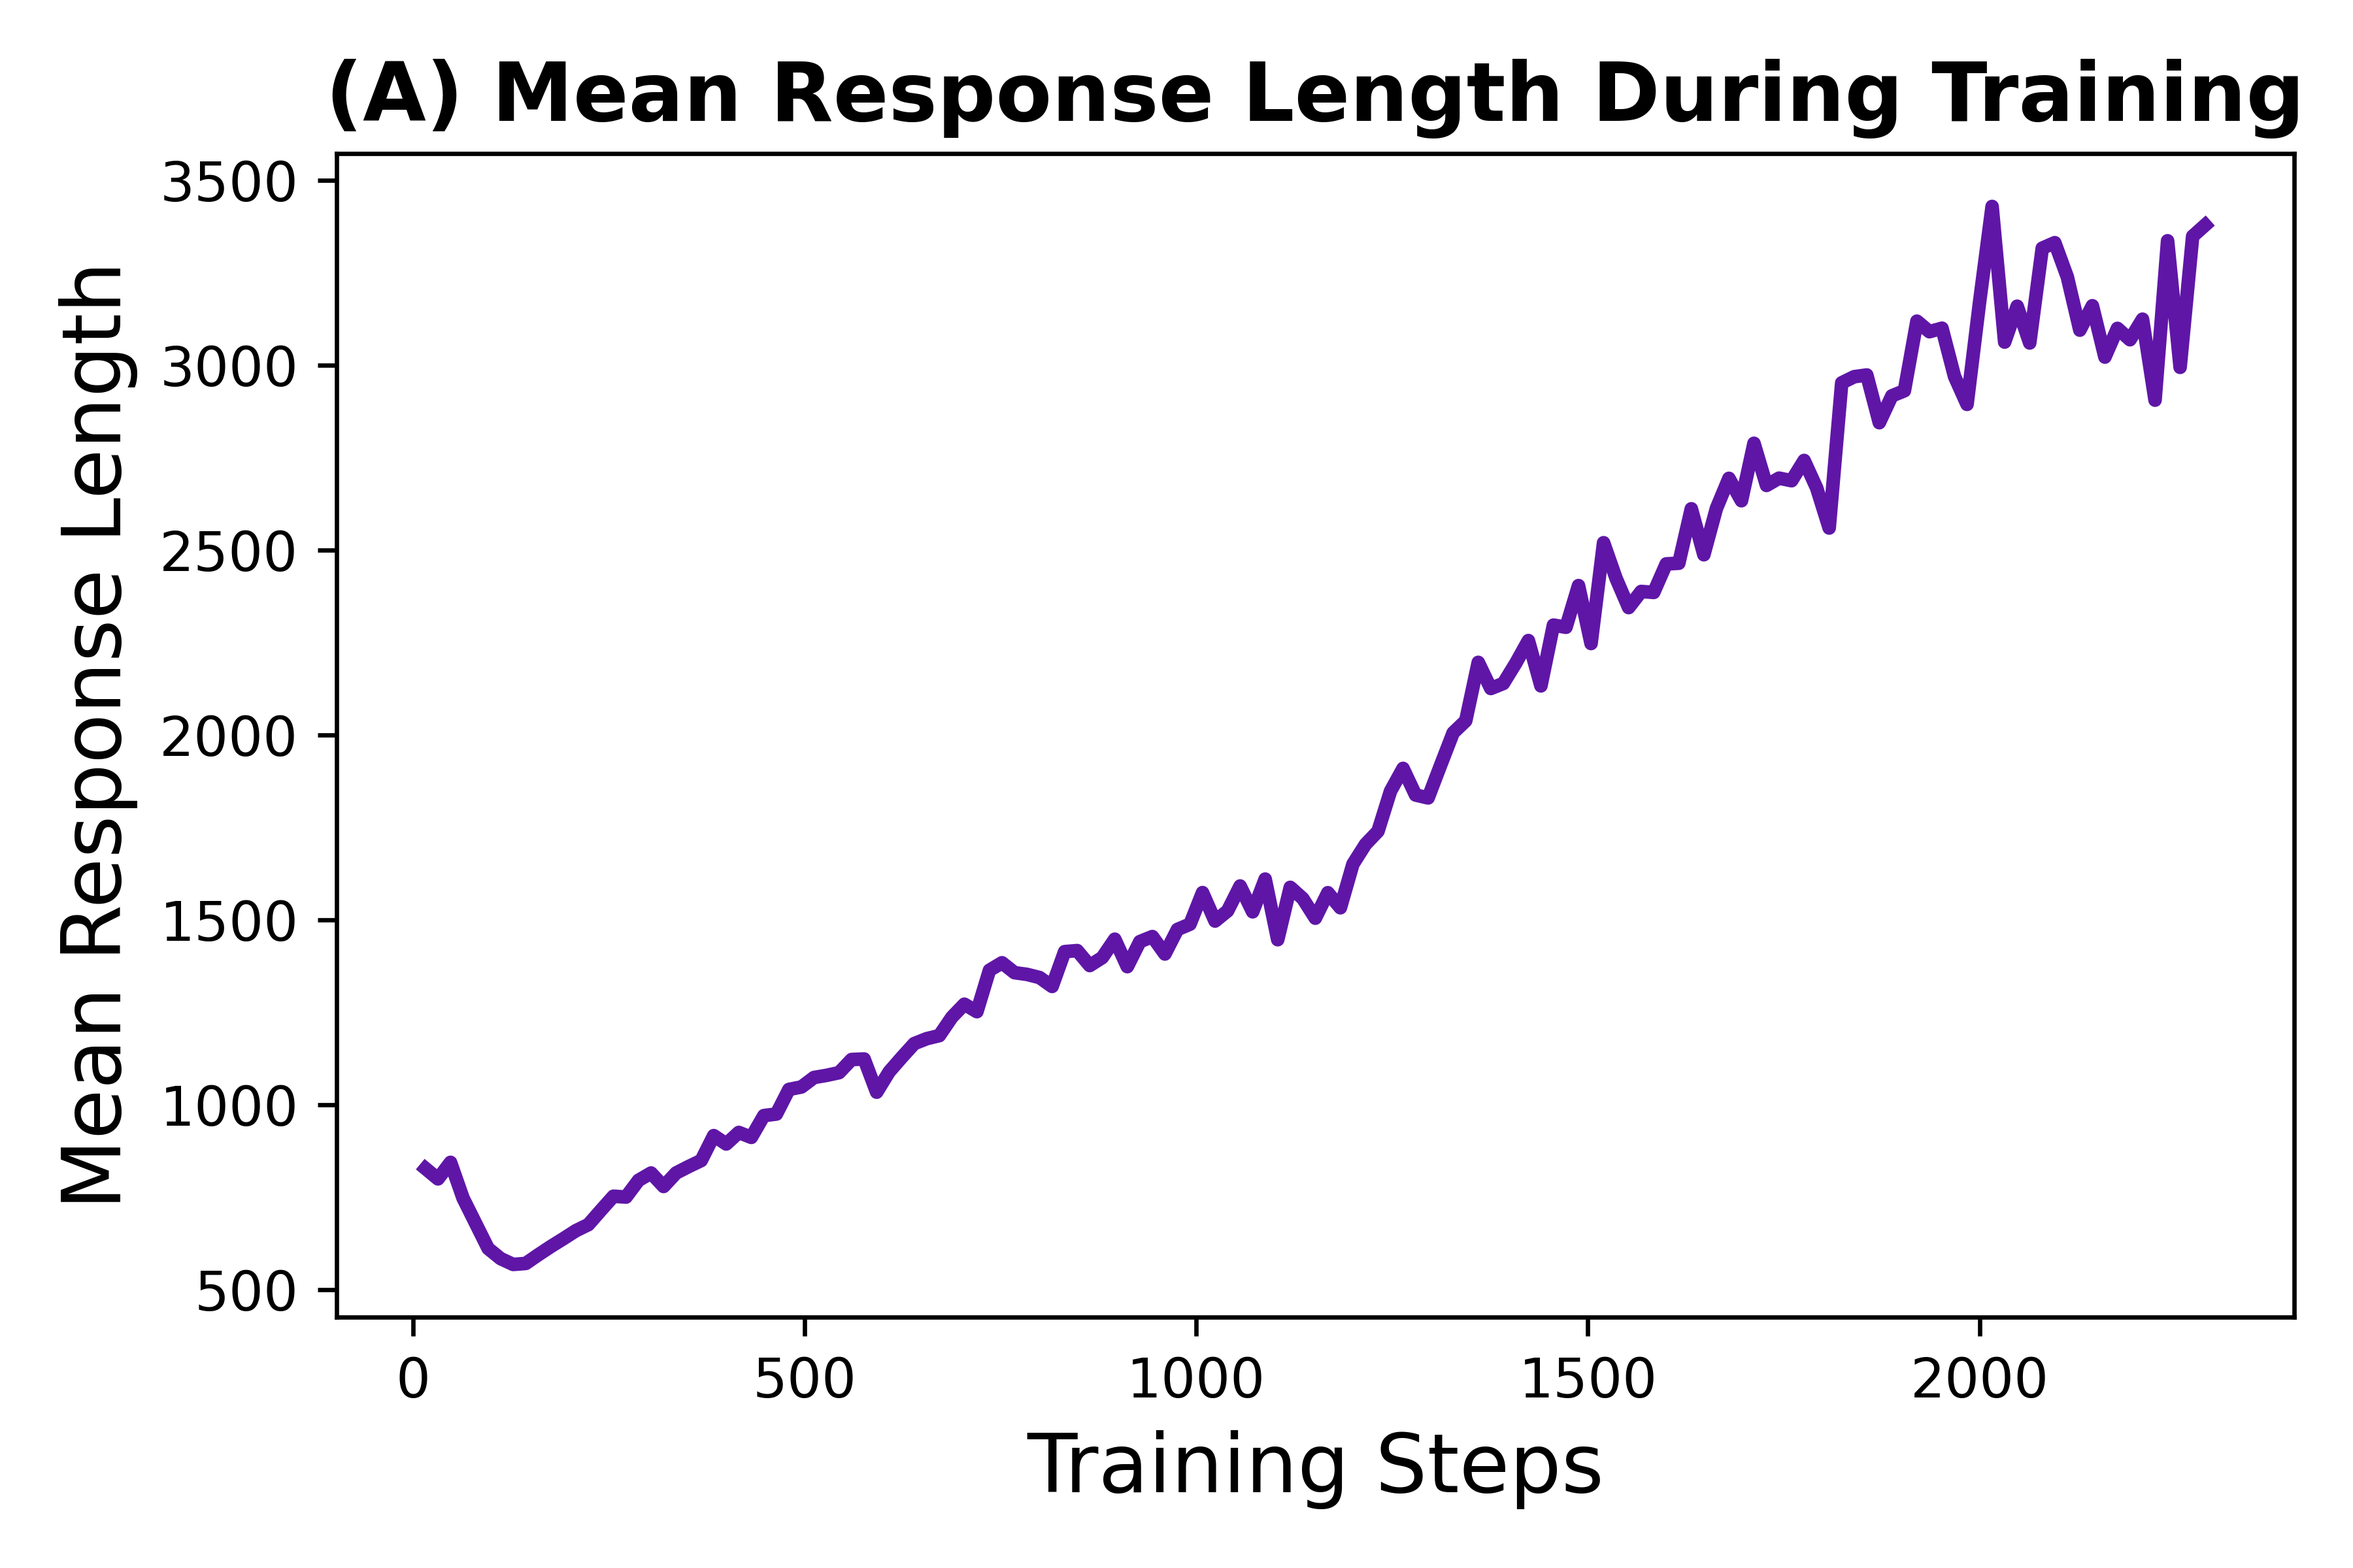
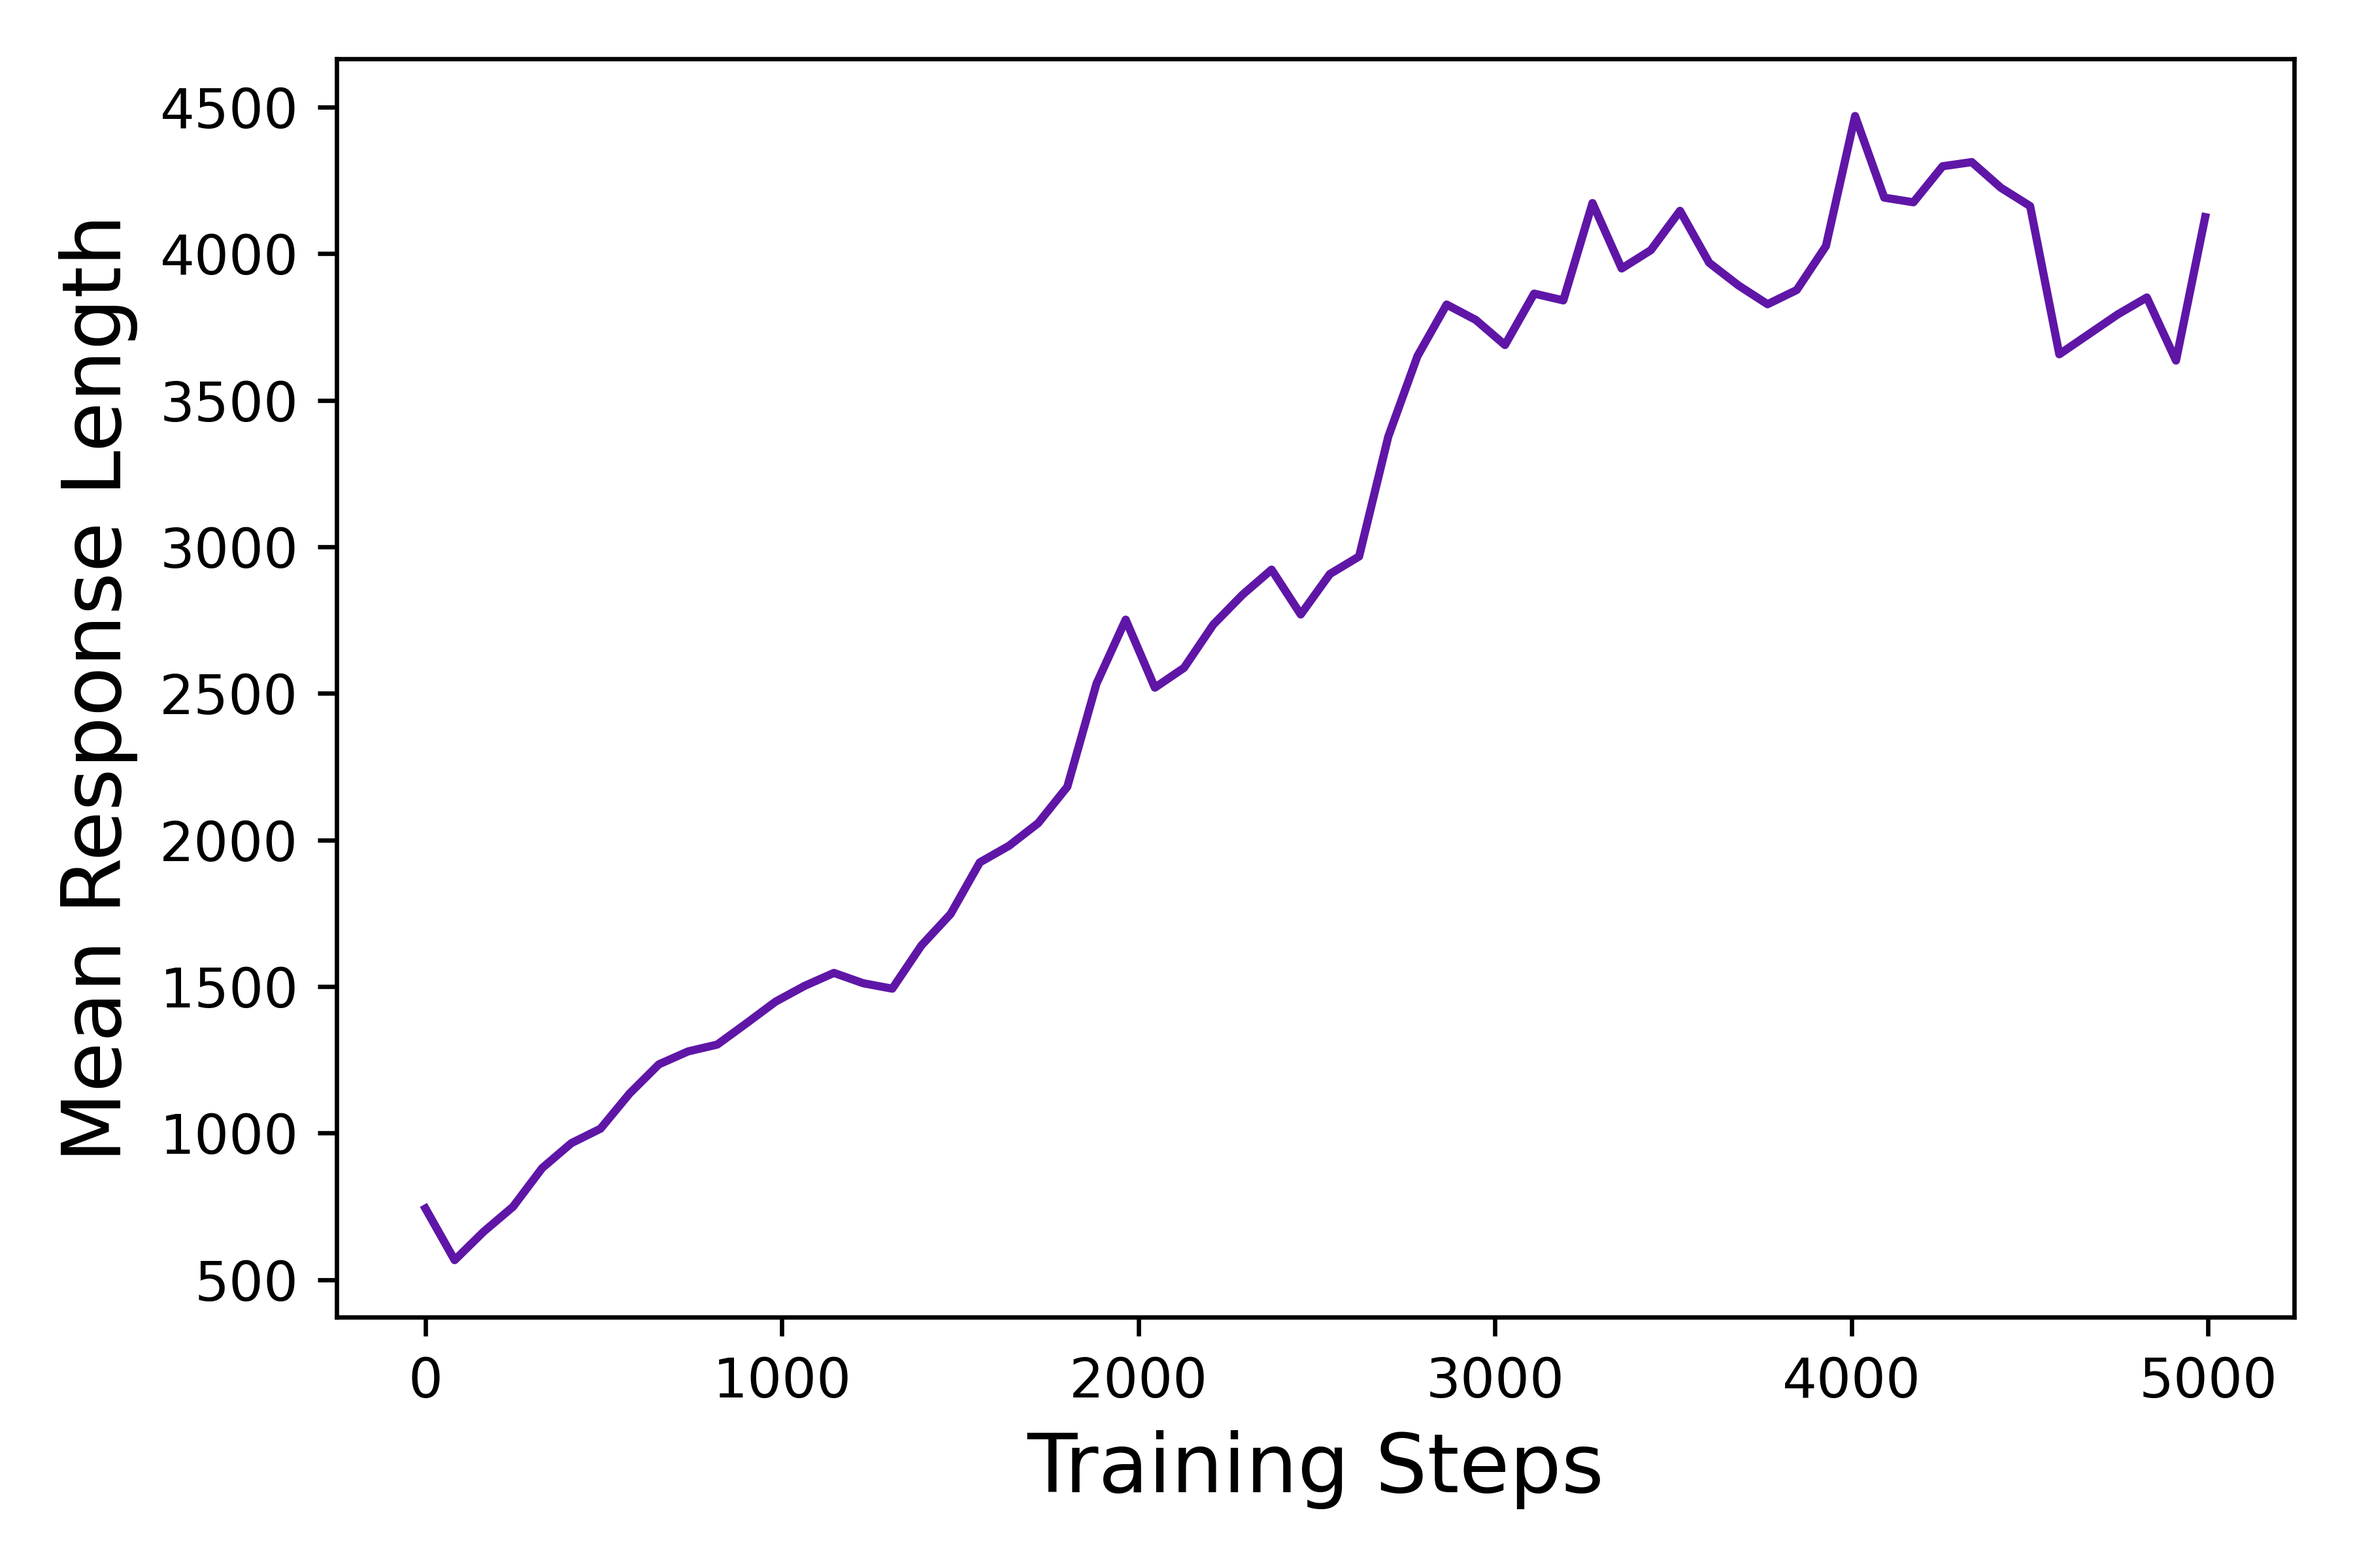
mod: change to DAPO

diff --git a/index.html b/index.html
@@ -3,12 +3,11 @@
 <head>
   <meta charset="utf-8">
   <meta name="description"
-        content="Democratizing LLM Reasoning
-        by Unveiling the Secrets of RL Scaling"> <!-- TODO: add some description, visible outside -->
-  <meta name="keywords" content="Puffin-Zero, Deepseek-R1, GRPO, AIME, SIA-Lab, Tsinghua University, ByteDance AlphaSeed"> <!-- TODO: add some keywords for search engine -->
+        content="DAPO: An Open-Source State-of-The-Art LLM Reinforcement Learning System"> <!-- TODO: add some description, visible outside -->
+  <meta name="keywords" content="DAPO, Deepseek-R1, PPO, GRPO, AIME, SIA-Lab, Tsinghua University, ByteDance AlphaSeed"> <!-- TODO: add some keywords for search engine -->
   <meta name="viewport" content="width=device-width, initial-scale=1">
   <meta name="google-site-verification" content="kprAnuq7DikheNqF213Uz7EMDHcgE-ivGPsTVfGzAsI" />
-  <title>Puffin-Zero</title> <!-- TODO: fix the title displayed on top -->
+  <title>DAPO</title>
 
   <!-- Global site tag (gtag.js) - Google Analytics -->
   <script async src="https://www.googletagmanager.com/gtag/js?id=G-PYVRSFMDRL"></script>
@@ -24,15 +23,6 @@
     gtag('config', 'G-PYVRSFMDRL');
   </script>
   <script async src="https://cdn.jsdelivr.net/npm/mathjax@3/es5/tex-mml-chtml.js"></script>
-  <!-- <script type="text/javascript" async src="https://cdnjs.cloudflare.com/ajax/libs/mathjax/2.7.7/MathJax.js?config=TeX-MML-AM_CHTML"></script>
-  <script type="text/x-mathjax-config">
-      MathJax.Hub.Config({
-        tex2jax: {
-            inlineMath: [['$','$'], ['\\(','\\)']],
-            processEscapes: true
-        }
-      });
-  </script> -->
 
   <link href="https://fonts.googleapis.com/css?family=Google+Sans|Noto+Sans|Castoro"
         rel="stylesheet">
@@ -44,7 +34,6 @@
   <link rel="stylesheet"
         href="https://cdn.jsdelivr.net/gh/jpswalsh/academicons@1/css/academicons.min.css">
   <link rel="stylesheet" href="./static/css/index.css">
-  <link rel="icon" type="images/x-icon" href="./static/images/icon_3.png"> <!-- TODO: fix icon -->
 
   <script src="https://ajax.googleapis.com/ajax/libs/jquery/3.5.1/jquery.min.js"></script>
   <script defer src="./static/js/fontawesome_6_7_2.all.js"></script>
@@ -92,9 +81,7 @@
       <div class="columns is-centered">
         <div class="column has-text-centered">
           <h1 class="title is-1 publication-title">
-            <img src="static/images/icon_3.png" style="width:1.25em;vertical-align: middle" alt="Logo" />
-            <span class="dnerf">Puffin-Zero</span>: Democratizing LLM Reasoning
-            by Unveiling the Secrets of RL Scaling
+            DAPO: An Open-Source State-of-The-Art LLM Reinforcement Learning System
           </h1> <!-- TODO: fix the title -->
           <!-- <div class="is-size-5 publication-authors">
             <span class="author-block">
@@ -107,11 +94,12 @@
           </div> -->
 
           <div class="is-size-5 publication-authors">
-            <span class="author-block"><sup>1</sup>ByteDance Seed,</span>
+            <span class="author-block"><sup>1</sup>ByteDance Seed</span>
             <span class="author-block"><sup>2</sup>Institute for AI Industry Research (AIR), Tsinghua University</span>
-            <span class="author-block"><sup>3</sup>Tsinghua-ByteDance SIA-Lab</span>
+            <span class="author-block"><sup>3</sup>SIA-Lab of Tsinghua AIR and ByteDance Seed</span>
+            <span class="author-block"><sup>4</sup>The University of Hong Kong</span>
           </div>
-          <div class="is-size-5 publication-authors">
+          <div class="is-size-6 publication-authors">
             <span class="author-block">*Full author list in Contributions</span>
           </div>
 
@@ -202,7 +190,7 @@
         <h2 class="title is-3">Abstract</h2>
         <div class="content has-text-justified">
           <p>
-            We release a fully open-sourced system for large-scale LLM RL, including algorithm, code infrastructure, and dataset. The system achieves state-of-the-art large-scale LLM RL performance (AIME 50 on Qwen-32B pretrained model). We propose the Decoupled Clip and Dynamic SAmpling Policy Optimization (DAPO) algorithm. Through open-sourcing, we provide the broader research community and society with practical access to scalable reinforcement learning, enabling all to benefit from these advancements. Our system is based on the awesome VeRL framework. Thanks for their great work!
+            We release a fully open-sourced system for large-scale LLM RL, including algorithm, code infrastructure, and dataset. The system achieves state-of-the-art large-scale LLM RL performance (AIME 50 on Qwen-32B pretrained model). We propose the Decoupled Clip and Dynamic SAmpling Policy Optimization (DAPO) algorithm. Through open-sourcing, we provide the broader research community and society with practical access to scalable reinforcement learning, enabling all to benefit from these advancements. Our system is based on the awesome <a href="https://github.com/volcengine/verl">verl</a> framework. Thanks for their great work!
           </p>
         </div>
       </div>
@@ -225,8 +213,8 @@
       <div class="column is-four-fifths">
         <h2 class="subtitle has-text-centered">
           <img src="static/images/score.png"/>
-          AIME performance and length dynamics of DAPO.
         </h2>
+        AIME24 Performance: DAPO on the Qwen2.5-32B base model outperforms the previous SoTA DeepSeek-R1-Zero-Qwen-32B with 50% training steps.
       </div>
     </div>
 
@@ -234,9 +222,9 @@
     <div class="columns is-centered has-text-centered">
       <div class="column is-four-fifths">
         <h2 class="subtitle has-text-centered">
-          <img src="static/images/length.png"/>
-          Some caption.
+          <img src="static/images/length.png" width="400"/>
         </h2>
+        Length Dynamics: The increase in length provides the model with a larger space for exploration, allowing more complex reasoning behaviors to be sampled and reinforced.
       </div>
     </div>
   </div>
@@ -252,31 +240,34 @@
           <p>
             To benefit the broader research community, we make fully open-source the recipe of our RL training, including algorithm details, dataset, verifiers, model weights and infrastructures. We hope our project could help the research community to unlock the secret of large-scale RL training much easier. We'll provide a detailed technical report soon.
           </p>
-          <ul>
-            <li>
-              Infrastructure: We utilize <a href="https://github.com/volcengine/verl">verl</a> to perform GRPO training using the Qwen-32B-Base model from scratch with 128 H20 GPUs.
-            </li>
-            <li>
-              Data: We provide training and evaluation datasets for <span class="dnerf">Puffin-Zero</span> training.
-              <ul>
-                <li>
-                  Evaluation Dataset: AIME24 dataset.
-                </li>
-                <li>
-                  Training Dataset: A meticulously processed math dataset. 
-                </li>
-              </ul>
-            </li>
-            <li>
-              Verifiers: [Rule-based Verifier](link).
-            </li>
-            <li>
-              Training Scripts: Elaborate hyper-parameters for reproduction.
-            </li>
-            <li>
-              Model weights: Coming Soon (training still in progress). Currently, the best evaluation accuracy for AIME24 is 45.4%.
-            </li>
-          </ul>
+          <h3 class="title is-4">Infrastructure</h3>
+          <p>
+            We utilize <a href="https://github.com/volcengine/verl">verl</a> to perform DAPO training using the Qwen-32B-Base model from scratch with 128 H20 GPUs.
+          </p>
+          <h3 class="title is-4">Datasets</h3>
+          <p>
+            We provide training and evaluation datasets for DAPO training.
+            <ul>
+              <li>
+                Evaluation Dataset: AIME24 dataset.
+              </li>
+              <li>
+                Training Dataset: A meticulously processed math dataset. 
+              </li>
+            </ul>
+          </p>
+          <h3 class="title is-4">Verifiers</h3>
+          <p>
+            Verifiers: [Rule-based Verifier](link).
+          </p>
+          <h3 class="title is-4">Training Scripts</h3>
+          <p>
+            Elaborate hyper-parameters for reproduction.
+          </p>
+          <h3 class="title is-4">Model Weights</h3>
+          <p>
+            Coming Soon (training still in progress). Currently, the best evaluation accuracy for AIME24 is 45.4%.
+          </p>
         </div>
       </div>
     </div>
@@ -330,7 +321,7 @@
     <!-- Datasets -->
     <div class="columns is-centered has-text-centered">
       <div class="column is-four-fifths">
-        <h2 class="title is-3">Datasets</h2>
+        <h2 class="title is-3">Dataset</h2>
         <div class="content has-text-justified">
           <p>
             The answers of math dataset typically come in a variety of formats, such as expression, formula and number, which makes it challenging to design comprehensive rules to parse them. To provide accurate reward signals using rules and minimize errors introduced by formula parsers, inspired by AIME, we select and transform the answers into integers, which are easy to parse. For example, if the original answer is expressed in the form of \( \frac{a + \sqrt{b}}{c} \), we instruct the LLM to modify the question so that the expected answer becomes \( a + b + c \). After selection and transformation, we obtained the DAPO-Math-17K dataset, which consists of 17K prompts, each paired with an integer as the answer.
@@ -349,7 +340,7 @@
         <h2 class="title is-3">Experiment Setting</h2>
         <div class="content has-text-justified">
           <p>
-            We utilize our training data to perform GRPO training on Qwen2.5-32B-Base without any cold start (i.e., supervised finetune). The model is trained on 16 H20 machines (128 H20 GPUs in total). Each machine is equipped with 8 NVIDIA H20-96GB GPUs inter-connected with xxx GB/s NVLink. The inter-machine bandwidth is xxGbps. Up till now (03/15/2025), the model has been trained for xxx GPU hours. We use <a href="https://github.com/volcengine/verl">verl</a> to perform training.
+            We utilize our training data to perform DAPO training on Qwen2.5-32B-Base without any cold start (i.e., supervised finetune). The model is trained on 16 H20 machines (128 H20 GPUs in total). Each machine is equipped with 8 NVIDIA H20-96GB GPUs inter-connected with 960 GB/s NVLink. The inter-machine bandwidth is 1200Gbps. We adopt <a href="https://github.com/volcengine/verl">verl</a> as the training framework
           </p>
         </div>
       </div>
